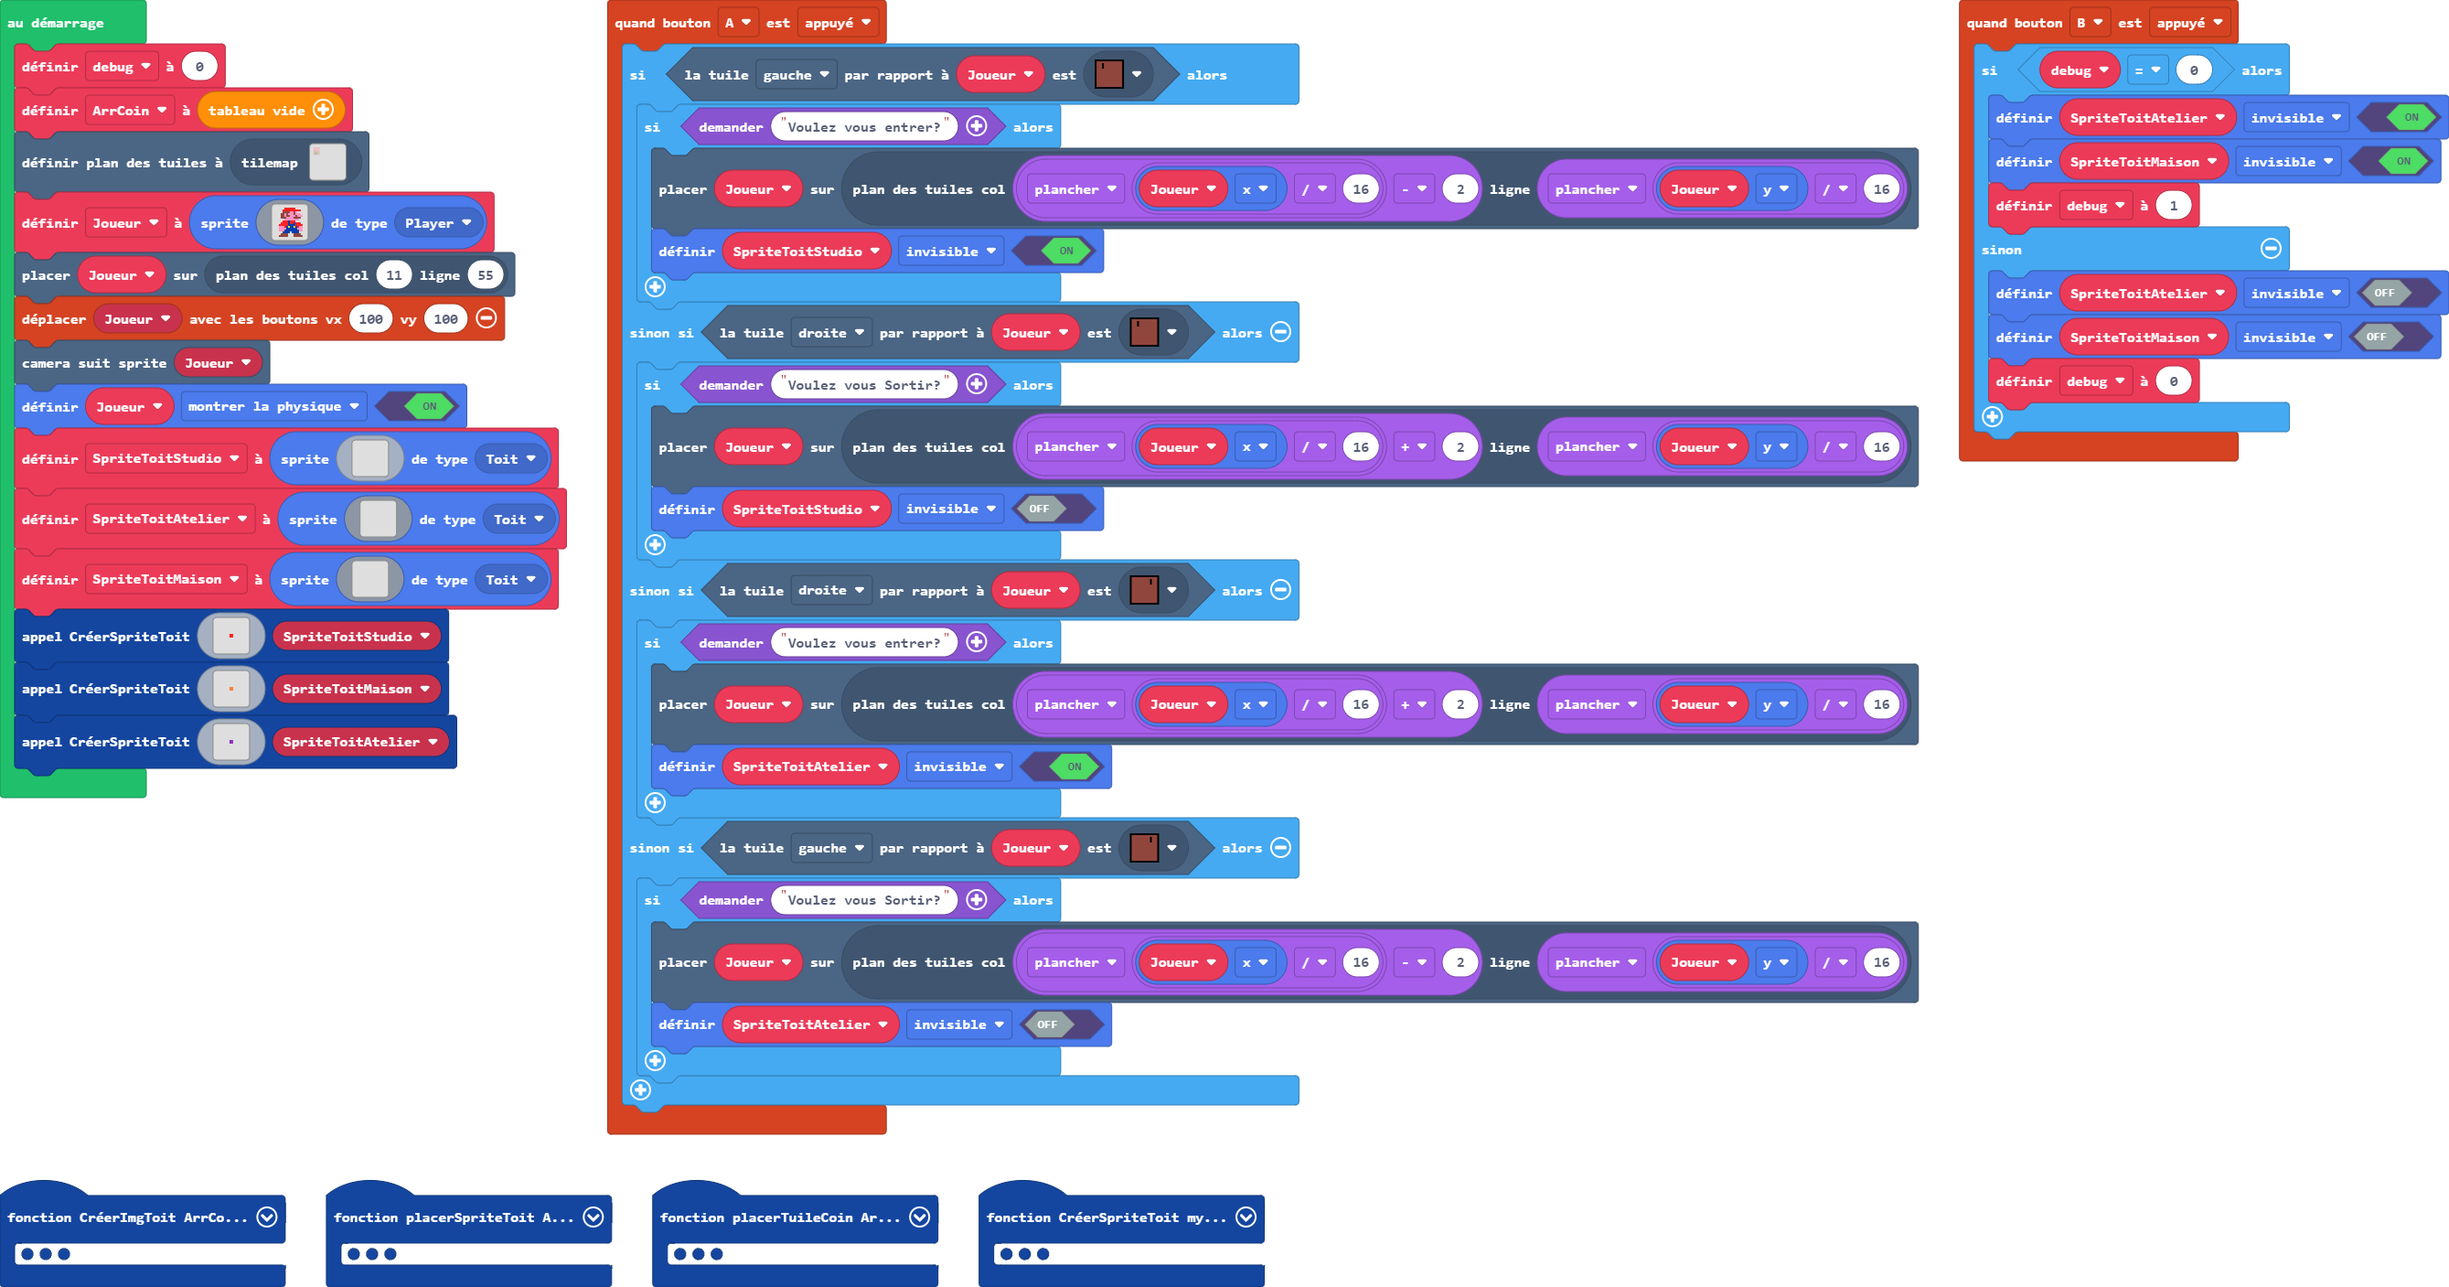
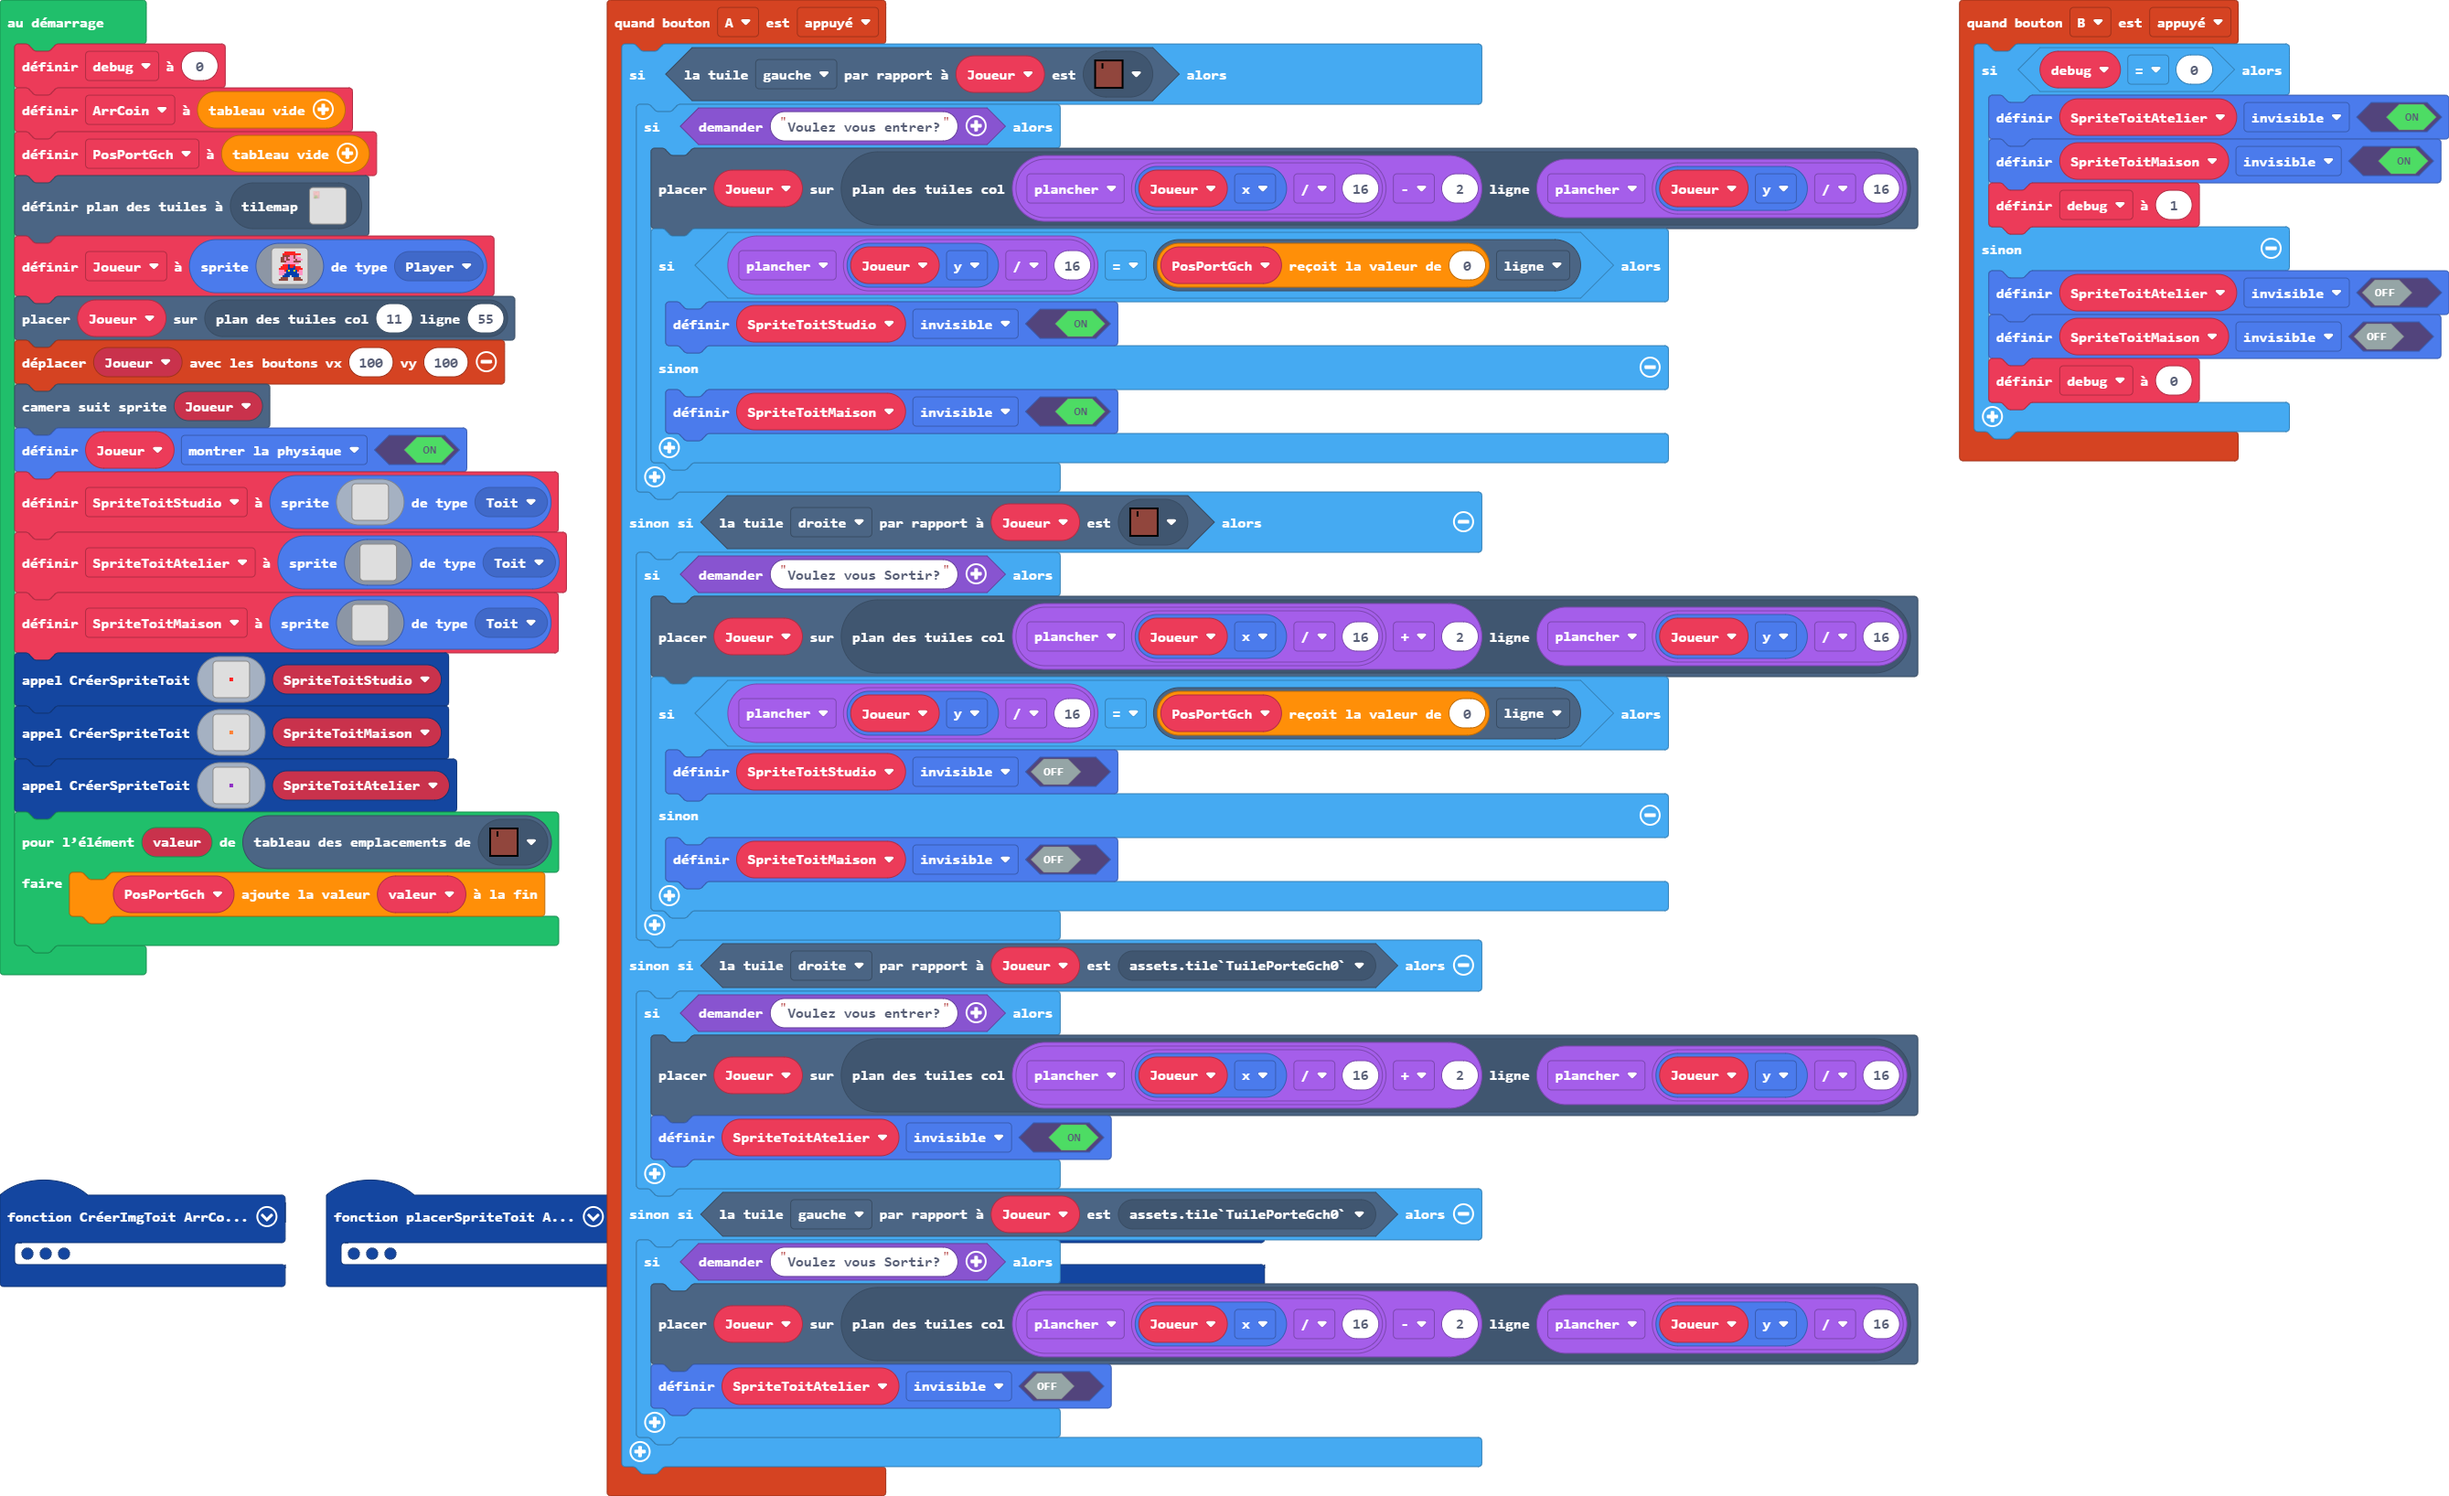
Mise à jour main.blocks, main.ts, tilemap.g.jres, tilemap.g.ts

diff --git a/tilemap.g.ts b/tilemap.g.ts
@@ -47,8 +47,6 @@ namespace myTiles {
     //% fixedInstance jres blockIdentity=images._tile
     export const tile23 = image.ofBuffer(hex``);
     //% fixedInstance jres blockIdentity=images._tile
-    export const tile22 = image.ofBuffer(hex``);
-    //% fixedInstance jres blockIdentity=images._tile
     export const tile24 = image.ofBuffer(hex``);
     //% fixedInstance jres blockIdentity=images._tile
     export const tile25 = image.ofBuffer(hex``);
@@ -64,6 +62,8 @@ namespace myTiles {
     export const tile30 = image.ofBuffer(hex``);
     //% fixedInstance jres blockIdentity=images._tile
     export const tile31 = image.ofBuffer(hex``);
+    //% fixedInstance jres blockIdentity=images._tile
+    export const tile22 = image.ofBuffer(hex``);
 
     helpers._registerFactory("tilemap", function(name: string) {
         switch(helpers.stringTrim(name)) {
@@ -621,6 +621,44 @@ namespace myTiles {
 . . . . . . . . . . . . . . . . 
 . . . . . . . . . . . . . . . . 
 `, [myTiles.transparency16], TileScale.Sixteen);
+            case "niveau5":
+            case "niveau5":return tiles.createTilemap(hex`1000100000000000000000000000000000000000000000000000000000000000000000000000000000000000000000000000000000000000000000000000000000000000000000000000000000000000000000000000000000000000000000000000000000000000000000000000000000000000000000000000000000000000000000000000000000000000000000000000000000000000000000000000000000000000000000000000000000000000000000000000000000000000000000000000000000000000000000000000000000000000000000000000000000000000000000000000000000000000000000000000000000000000000000000000000000000000`, img`
+. . . . . . . . . . . . . . . . 
+. . . . . . . . . . . . . . . . 
+. . . . . . . . . . . . . . . . 
+. . . . . . . . . . . . . . . . 
+. . . . . . . . . . . . . . . . 
+. . . . . . . . . . . . . . . . 
+. . . . . . . . . . . . . . . . 
+. . . . . . . . . . . . . . . . 
+. . . . . . . . . . . . . . . . 
+. . . . . . . . . . . . . . . . 
+. . . . . . . . . . . . . . . . 
+. . . . . . . . . . . . . . . . 
+. . . . . . . . . . . . . . . . 
+. . . . . . . . . . . . . . . . 
+. . . . . . . . . . . . . . . . 
+. . . . . . . . . . . . . . . . 
+`, [myTiles.transparency16], TileScale.Sixteen);
+            case "niveau6":
+            case "niveau6":return tiles.createTilemap(hex`1000100000000000000000000000000000000000000000000000000000000000000000000000000000000000000000000000000000000000000000000000000000000000000000000000000000000000000000000000000000000000000000000000000000000000000000000000000000000000000000000000000000000000000000000000000000000000000000000000000000000000000000000000000000000000000000000000000000000000000000000000000000000000000000000000000000000000000000000000000000000000000000000000000000000000000000000000000000000000000000000000000000000000000000000000000000000000`, img`
+. . . . . . . . . . . . . . . . 
+. . . . . . . . . . . . . . . . 
+. . . . . . . . . . . . . . . . 
+. . . . . . . . . . . . . . . . 
+. . . . . . . . . . . . . . . . 
+. . . . . . . . . . . . . . . . 
+. . . . . . . . . . . . . . . . 
+. . . . . . . . . . . . . . . . 
+. . . . . . . . . . . . . . . . 
+. . . . . . . . . . . . . . . . 
+. . . . . . . . . . . . . . . . 
+. . . . . . . . . . . . . . . . 
+. . . . . . . . . . . . . . . . 
+. . . . . . . . . . . . . . . . 
+. . . . . . . . . . . . . . . . 
+. . . . . . . . . . . . . . . . 
+`, [myTiles.transparency16], TileScale.Sixteen);
         }
         return null;
     })
@@ -670,8 +708,6 @@ namespace myTiles {
             case "tile17":return tile17;
             case "TuilePanneau1":
             case "tile23":return tile23;
-            case "TuilePorteGch0":
-            case "tile22":return tile22;
             case "TuilePanneau0":
             case "tile24":return tile24;
             case "TuileCoinBatTest":
@@ -688,6 +724,8 @@ namespace myTiles {
             case "tile30":return tile30;
             case "TuileCoinBatTest1":
             case "tile31":return tile31;
+            case "TuilePorteDrt":
+            case "tile22":return tile22;
         }
         return null;
     })

diff --git a/main.ts b/main.ts
@@ -43,12 +43,20 @@ controller.A.onEvent(ControllerButtonEvent.Pressed, function () {
     if (Joueur.tileKindAt(TileDirection.Left, assets.tile`TuilePorteGch`)) {
         if (game.ask("Voulez vous entrer?")) {
             tiles.placeOnTile(Joueur, tiles.getTileLocation(Math.floor(Joueur.x / 16) - 2, Math.floor(Joueur.y / 16)))
-            SpriteToitStudio.setFlag(SpriteFlag.Invisible, true)
+            if (Math.floor(Joueur.y / 16) == PosPortGch[0].row) {
+                SpriteToitStudio.setFlag(SpriteFlag.Invisible, true)
+            } else {
+                SpriteToitMaison.setFlag(SpriteFlag.Invisible, true)
+            }
         }
     } else if (Joueur.tileKindAt(TileDirection.Right, assets.tile`TuilePorteGch`)) {
         if (game.ask("Voulez vous Sortir?")) {
             tiles.placeOnTile(Joueur, tiles.getTileLocation(Math.floor(Joueur.x / 16) + 2, Math.floor(Joueur.y / 16)))
-            SpriteToitStudio.setFlag(SpriteFlag.Invisible, false)
+            if (Math.floor(Joueur.y / 16) == PosPortGch[0].row) {
+                SpriteToitStudio.setFlag(SpriteFlag.Invisible, false)
+            } else {
+                SpriteToitMaison.setFlag(SpriteFlag.Invisible, false)
+            }
         }
     } else if (Joueur.tileKindAt(TileDirection.Right, assets.tile`TuilePorteGch0`)) {
         if (game.ask("Voulez vous entrer?")) {
@@ -82,10 +90,12 @@ let SpriteToitMaison: Sprite = null
 let SpriteToitAtelier: Sprite = null
 let SpriteToitStudio: Sprite = null
 let Joueur: Sprite = null
+let PosPortGch: tiles.Location[] = []
 let ArrCoin: tiles.Location[] = []
 let debug = 0
 debug = 0
 ArrCoin = []
+PosPortGch = []
 tiles.setCurrentTilemap(tilemap`niveau2`)
 Joueur = sprites.create(img`
     . . . . . 2 2 2 2 2 2 . . . . . 
@@ -183,3 +193,6 @@ CréerSpriteToit(img`
     . . . . . . . . . . . . . . . . 
     . . . . . . . . . . . . . . . . 
     `, SpriteToitAtelier)
+for (let valeur of tiles.getTilesByType(assets.tile`TuilePorteGch`)) {
+    PosPortGch.push(valeur)
+}
